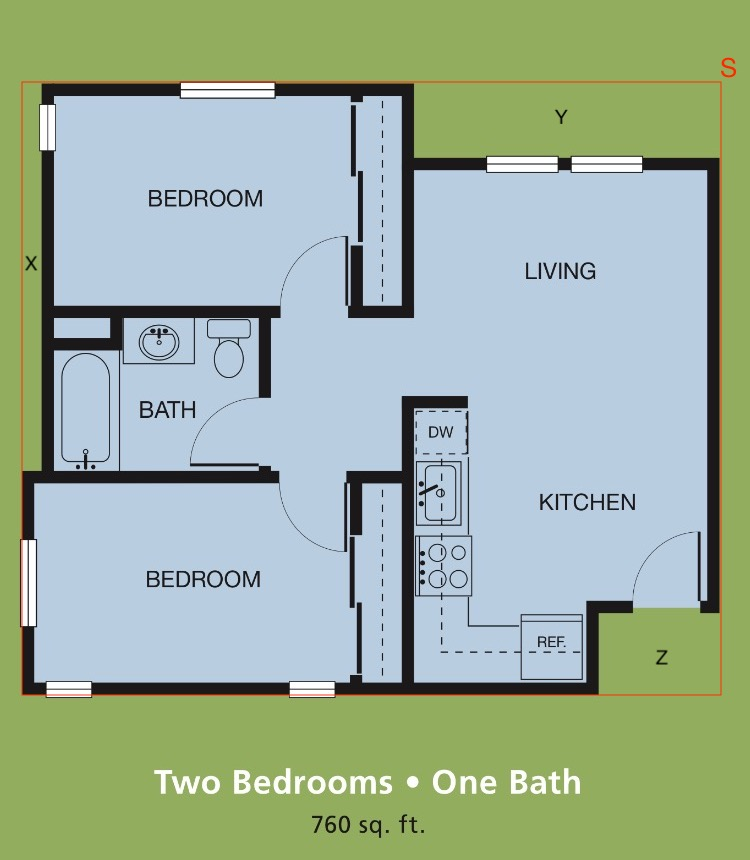
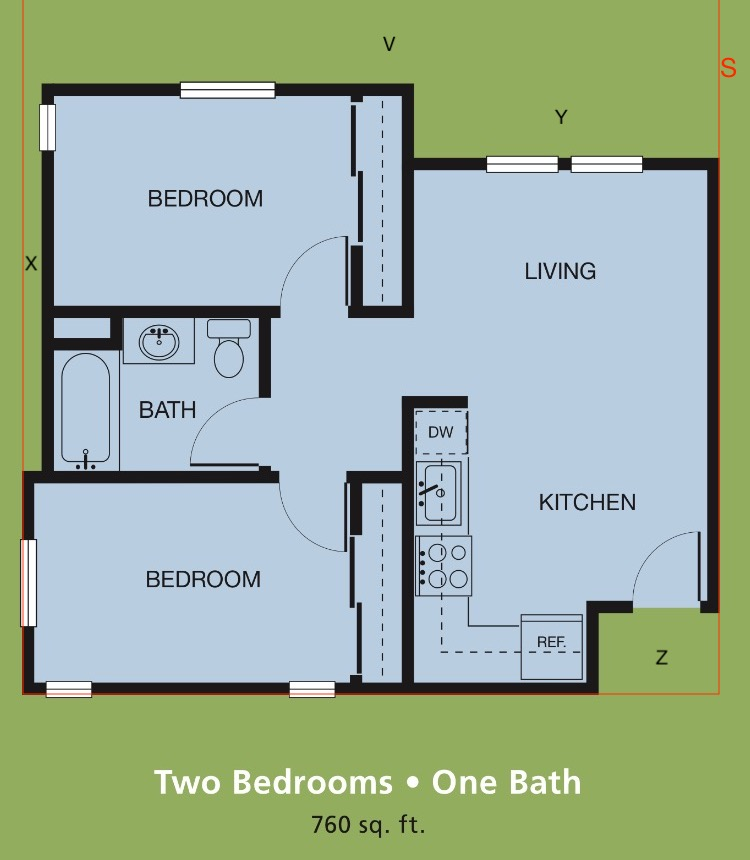
More changes

Changed region(s): [[0.0307, 0.0907, 0.9813, 0.8163], [0.1227, 0.786, 0.3987, 0.8163], [0.0307, 0.786, 0.0613, 0.8163]]

diff --git a/index.md b/index.md
@@ -9,32 +9,28 @@ date: 2017-12-20 22:33:13 -0800
 ### Definitions 
 
 Let $S$ be the minimal square that encloses the house. 
-Let $A$ be the area of the house. 
-Let $B = S \setminus A$ be whats left over, made up from $X,Y,Z$ in cw order starting from $180$ degrees.   
-
 Let $p \in [0,1]$ be the proportion of $A$ in $S$.
 Let $f$ from $S$ to $\mathbb{R}$ map subspaces to their square-footage. 
 
 ### Conclusions
 
-Then $q = 1-p$ is the proportion of $B$ in $S$.
 Then, $750 = f(A) = p*f(S)$. 
 Now, the length of $S$ in feet is $\approx\sqrt{f(S)} = \sqrt{\frac{f(A)}{p}}$.
 
-### Calculations 
+So let $q = W(S)/length(S)$ be the ratio of pixel/foot.
 
-Let the $length(S) = \alpha$.
+### Calculations 
 
 ##### The Length of $S$
 
 *Lengths in pixels*
 
-||X|Y|Z|S|
+||V|X|Y|Z|S|
 |:---:|:---:|:---:|:---:|
-|**W**| 695 | 20 | 305 | 121 | 698 |
-|**H**| 84 | 388 | 75 | 82 | 698 |
+|**W**| 695 | 20  | 305 | 121 | 698 |
+|**H**| 84  | 388 | 75  | 82  | 698 |
 
-$$p = 1 - \frac{W(V)*H(V) + W(X)*H(X) + W(Y)*H(Y) + W(Z)*H(Z)}{W(S)*H(S)}$$
+$$p = 1 -  \frac{\sum_{T \in \{V,X,Y,Z\}}f(T)}{f(S)}$$
 
 $$\approx 0.797$$
 
@@ -42,18 +38,43 @@ Then the length of a side of $S$ is about $30.676$ feet.
 
 ##### Specific Areas
 
-|Upper Bedroom |Lower Bedroom|Living|Kitchen|Bath|
+||Upper Bedroom |Lower Bedroom|Living|Kitchen|Bath|
 |:---:|:---:|:---:|:---:|
 |**W**| 307 | 328 | 301 | 250 | 218 |
 |**H**| 216 | 211 | 229 | 205 | 163 |
 
-
-
 ### Reference
 
 ```julia
-X,Y,Z,S = (695,84),(20,388),(),()
+# functions 
+H(T) = T[2]
+W(T) = T[1]
+ξ(a) = round(a*10^4)/10^4
+W̄ = ξ∘W
+H̄ = ξ∘H
+f(T) = H(T)*W(T)
 
+# input
+V,X,Y,Z,S = (695,84),(20,388),(305,75),(121,82),(698,698)
+ub,lb,l,k,b = (307, 216), (328, 211), (301, 229), (250, 205), (218, 163)
+
+p = 1 - mapreduce(f,+,[V,X,Y,Z])/f(S) # proportian of house in S
+q = sqrt(750/p) / W(S) # ratio of foot/pixel
+
+t(T) = ξ(W(T)*q),ξ(H(T)*q) # transform pixel box into rounded feet box
+
+names = ["Upper Bedroom", "Lower Bedroom", "Livingroom", "Kitchen", "Bathroom"]
+rooms = ub,lb,l,k,b
+output = mapreduce(x->"$(x[2]): $(t(x[1]))",(a,b)->"$(a)\n$(b)",zip(rooms,names))
+
+println(output)
+#=
+Upper Bedroom: (13.4929, 9.4933)
+Lower Bedroom: (14.4158, 9.2736)
+Livingroom: (13.2291, 10.0647)
+Kitchen: (10.9877, 9.0099)
+Bathroom: (9.5812, 7.164)
+=#
 ```
 
 <img src="https://s3-us-west-2.amazonaws.com/com.ajcaldwell.public/house.jpg" style='width:100%;' border="0" alt="Null">
